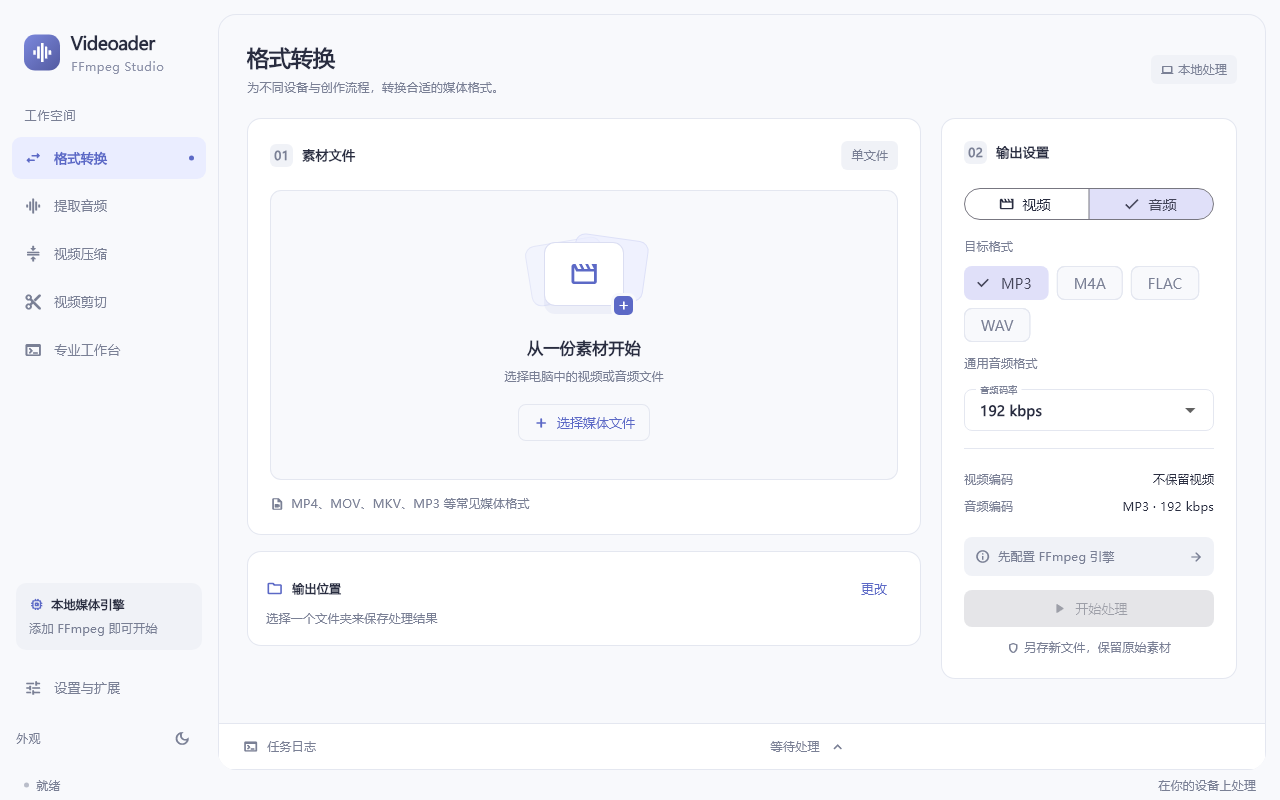
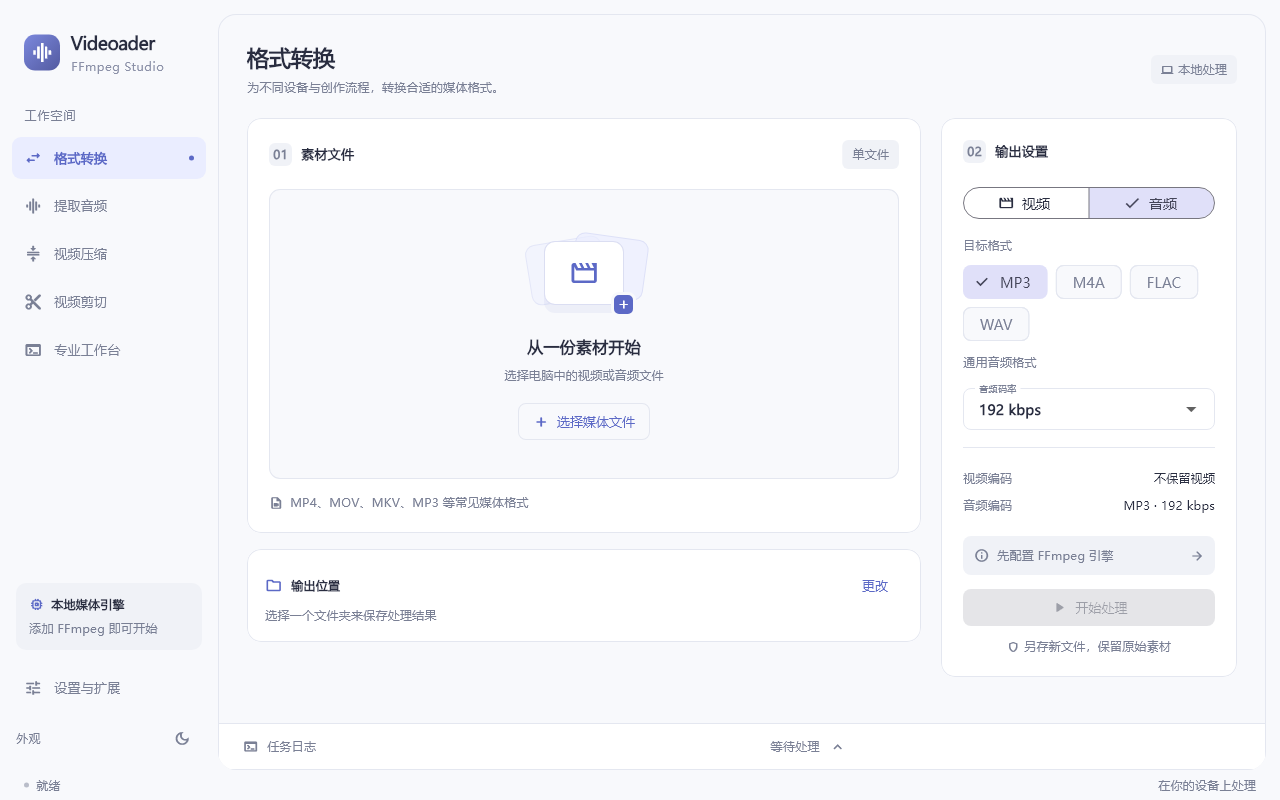
fix: render studio panels on Material for current Flutter

diff --git a/lib/theme/studio_theme.dart b/lib/theme/studio_theme.dart
@@ -116,14 +116,13 @@ class StudioPanel extends StatelessWidget {
   final Widget child;
   final EdgeInsetsGeometry padding;
   @override
-  Widget build(BuildContext context) => Container(
-      padding: padding,
-      decoration: BoxDecoration(
-          color: Theme.of(context).colorScheme.surfaceContainerLowest,
-          border:
-              Border.all(color: Theme.of(context).colorScheme.outlineVariant),
-          borderRadius: BorderRadius.circular(14)),
-      child: child);
+  Widget build(BuildContext context) => Material(
+      color: Theme.of(context).colorScheme.surfaceContainerLowest,
+      shape: RoundedRectangleBorder(
+          borderRadius: BorderRadius.circular(14),
+          side: BorderSide(color: Theme.of(context).colorScheme.outlineVariant)),
+      clipBehavior: Clip.antiAlias,
+      child: Padding(padding: padding, child: child));
 }
 
 class StudioTag extends StatelessWidget {
